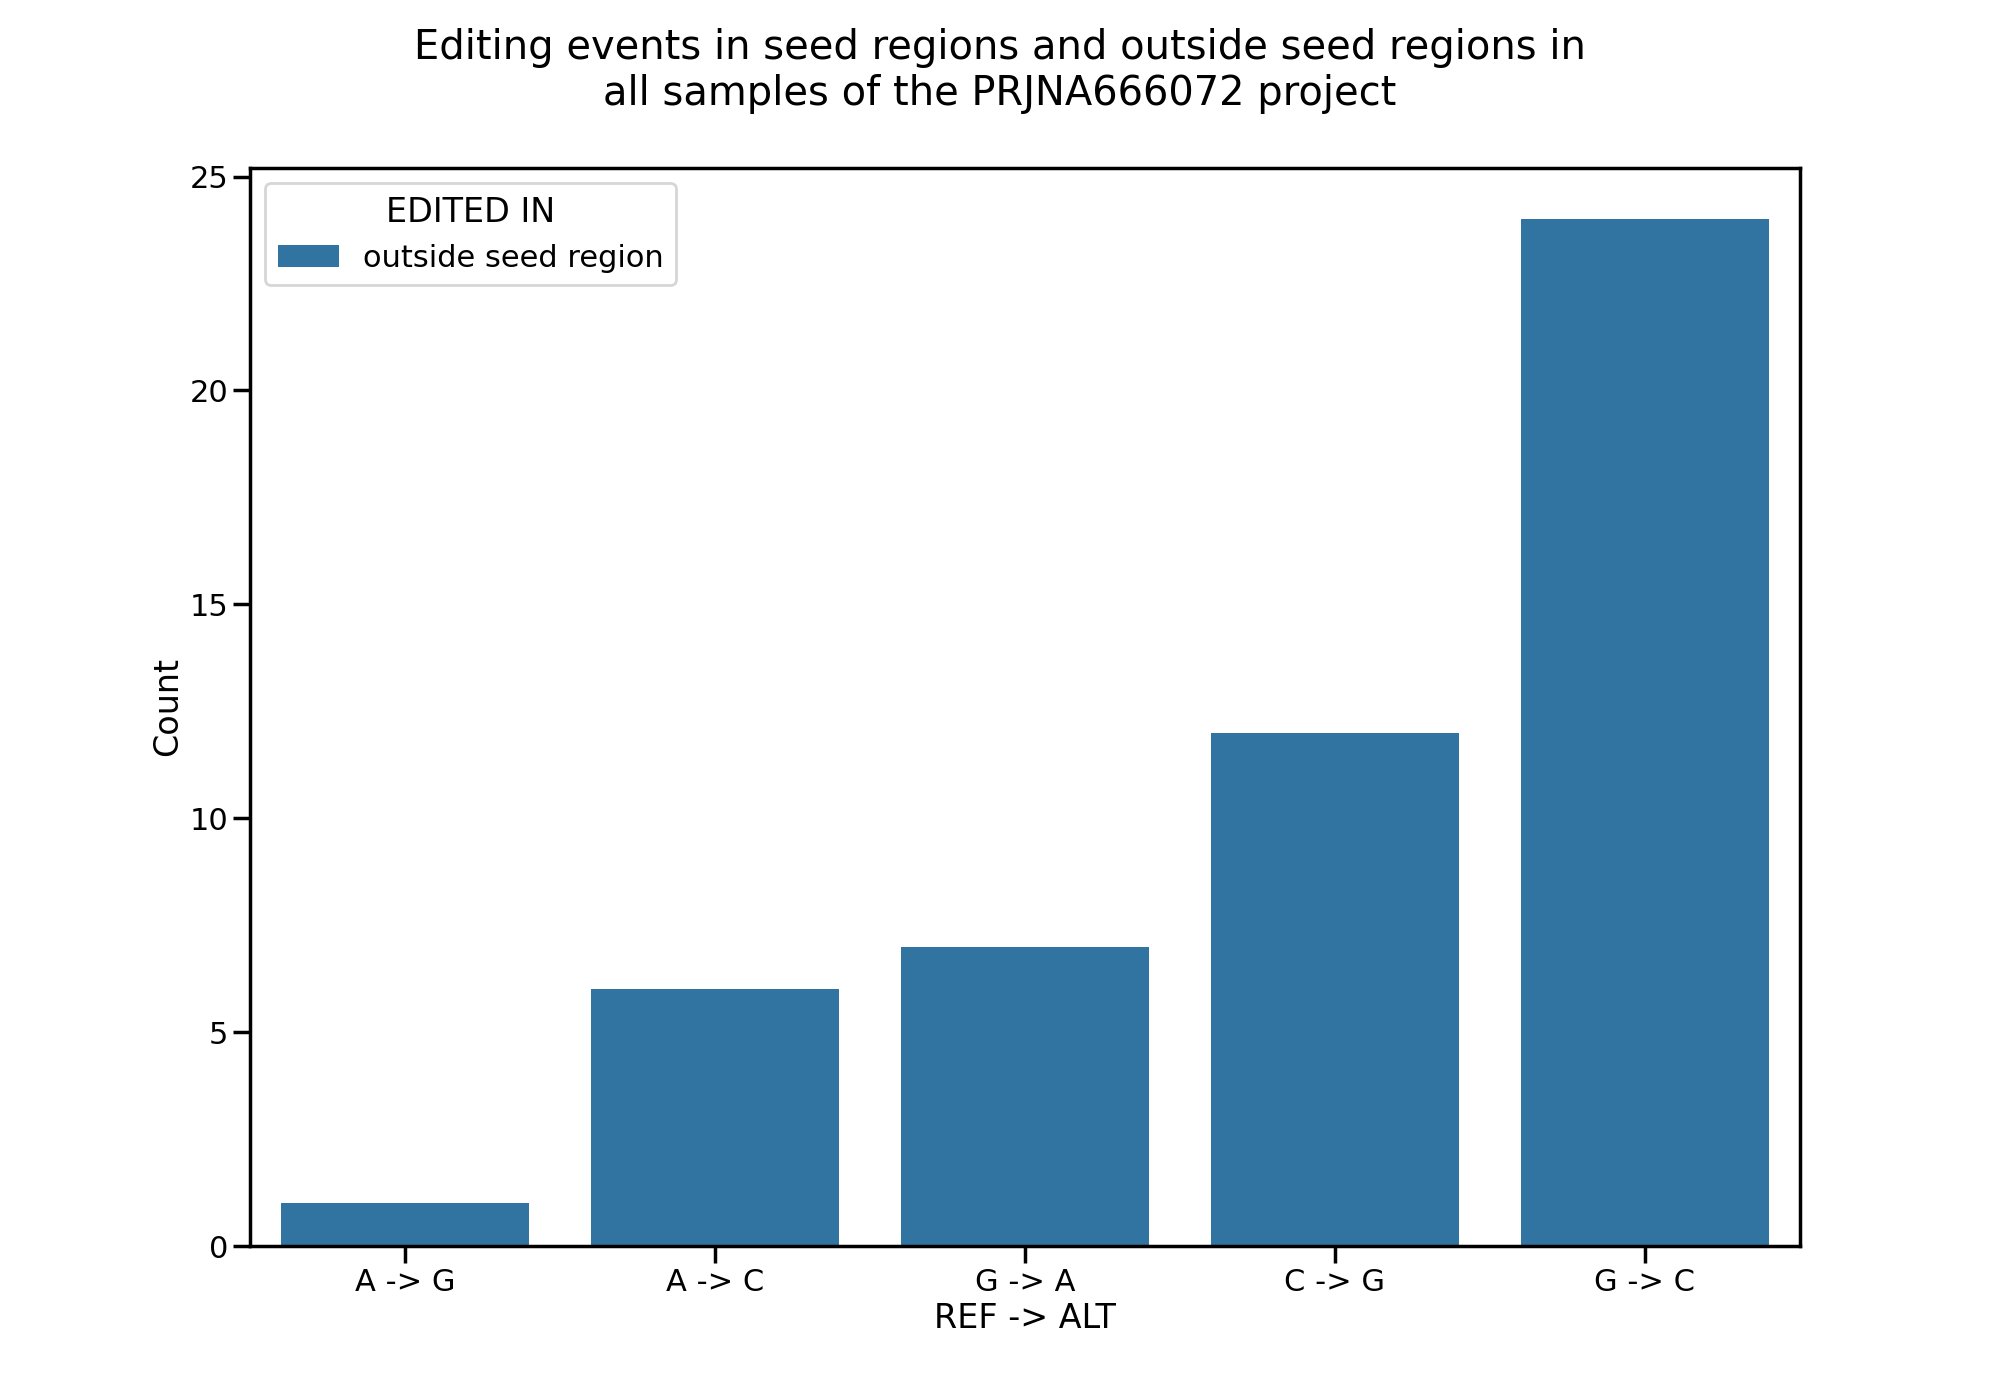
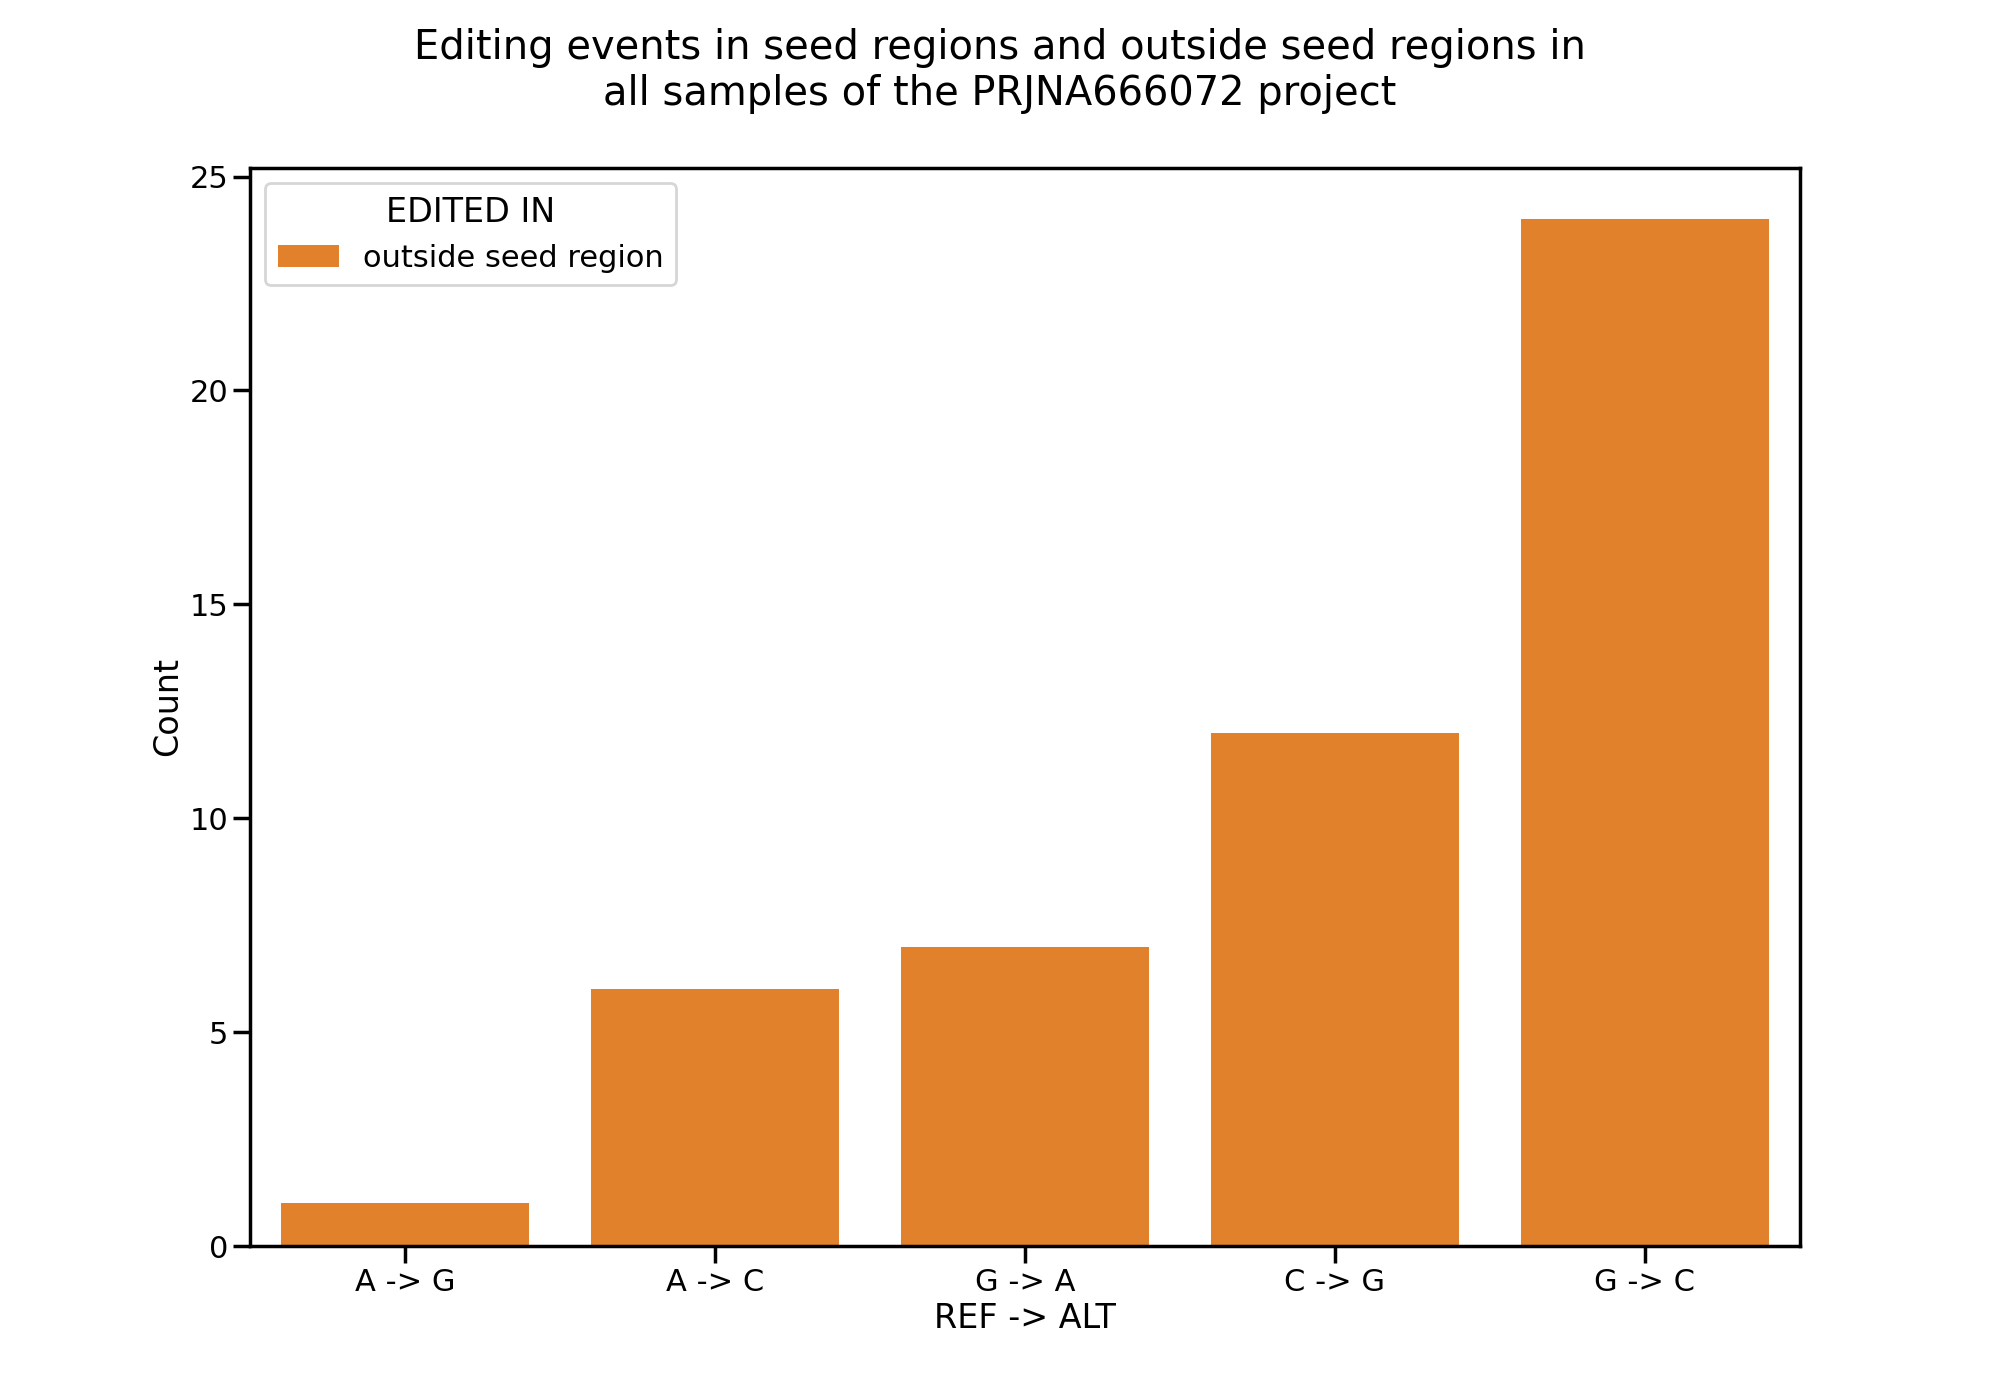
Add empty files for images

Changed region(s): [[0.124, 0.1536, 0.899, 0.8907], [0.124, 0.1536, 0.186, 0.215]]

diff --git a/main.go b/main.go
@@ -667,6 +667,10 @@ func generateHeatmap(table, resultHeatMapImage string) func() error {
 		if err := pathForFile(resultHeatMapImage); err != nil {
 			return err
 		}
+		if err := create(resultHeatMapImage); err != nil {
+			return err
+		}
+
 		sr := shell.NewShellRunner(nil, nil, nil)
 		return sr.RunShell("python3", "scripts/heatmap.py", table, resultHeatMapImage)
 	}
@@ -677,6 +681,11 @@ func generateBarplot(table, resultBarplotImage string) func() error {
 		if err := pathForFile(resultBarplotImage); err != nil {
 			return err
 		}
+
+		if err := create(resultBarplotImage); err != nil {
+			return err
+		}
+
 		sr := shell.NewShellRunner(nil, nil, nil)
 		return sr.RunShell("python3", "scripts/barplot.py", table, resultBarplotImage)
 	}
@@ -687,6 +696,10 @@ func generateHistplot(table, resultHistImage string) func() error {
 		if err := pathForFile(resultHistImage); err != nil {
 			return err
 		}
+		if err := create(resultHistImage); err != nil {
+			return err
+		}
+
 		sr := shell.NewShellRunner(nil, nil, nil)
 		return sr.RunShell("python3", "scripts/histogram.py", table, resultHistImage)
 	}

diff --git a/scripts/seed_editing.py b/scripts/seed_editing.py
@@ -60,11 +60,18 @@ def plot_seed_editing_events_count(df: pd.DataFrame, name: str, result_image: st
     fig, ax = plt.subplots(figsize=(20, 14))
     fig.suptitle(f"Editing events in seed regions and outside seed regions in\n{name}")
 
+    palette = dict(
+        zip(
+            ["seed region", "outside seed region"],
+            sns.color_palette(n_colors=2),
+        )
+    )
     sns.barplot(
         data=data.sort_values(Y_COL),
         x=X_COL,
         y=Y_COL,
         hue=EDITED_IN_COL,
         ax=ax,
+        palette=palette,
     )
     fig.savefig(result_image)

diff --git a/utils.go b/utils.go
@@ -243,3 +243,10 @@ func gzipFile(fileName string) func() error {
 		return sr.RunShell("gzip", fileName)
 	}
 }
+func create(filename string) error {
+	f, err := os.Create(resultBarplotImage)
+	if err != nil {
+		return err
+	}
+	return f.Close()
+}
